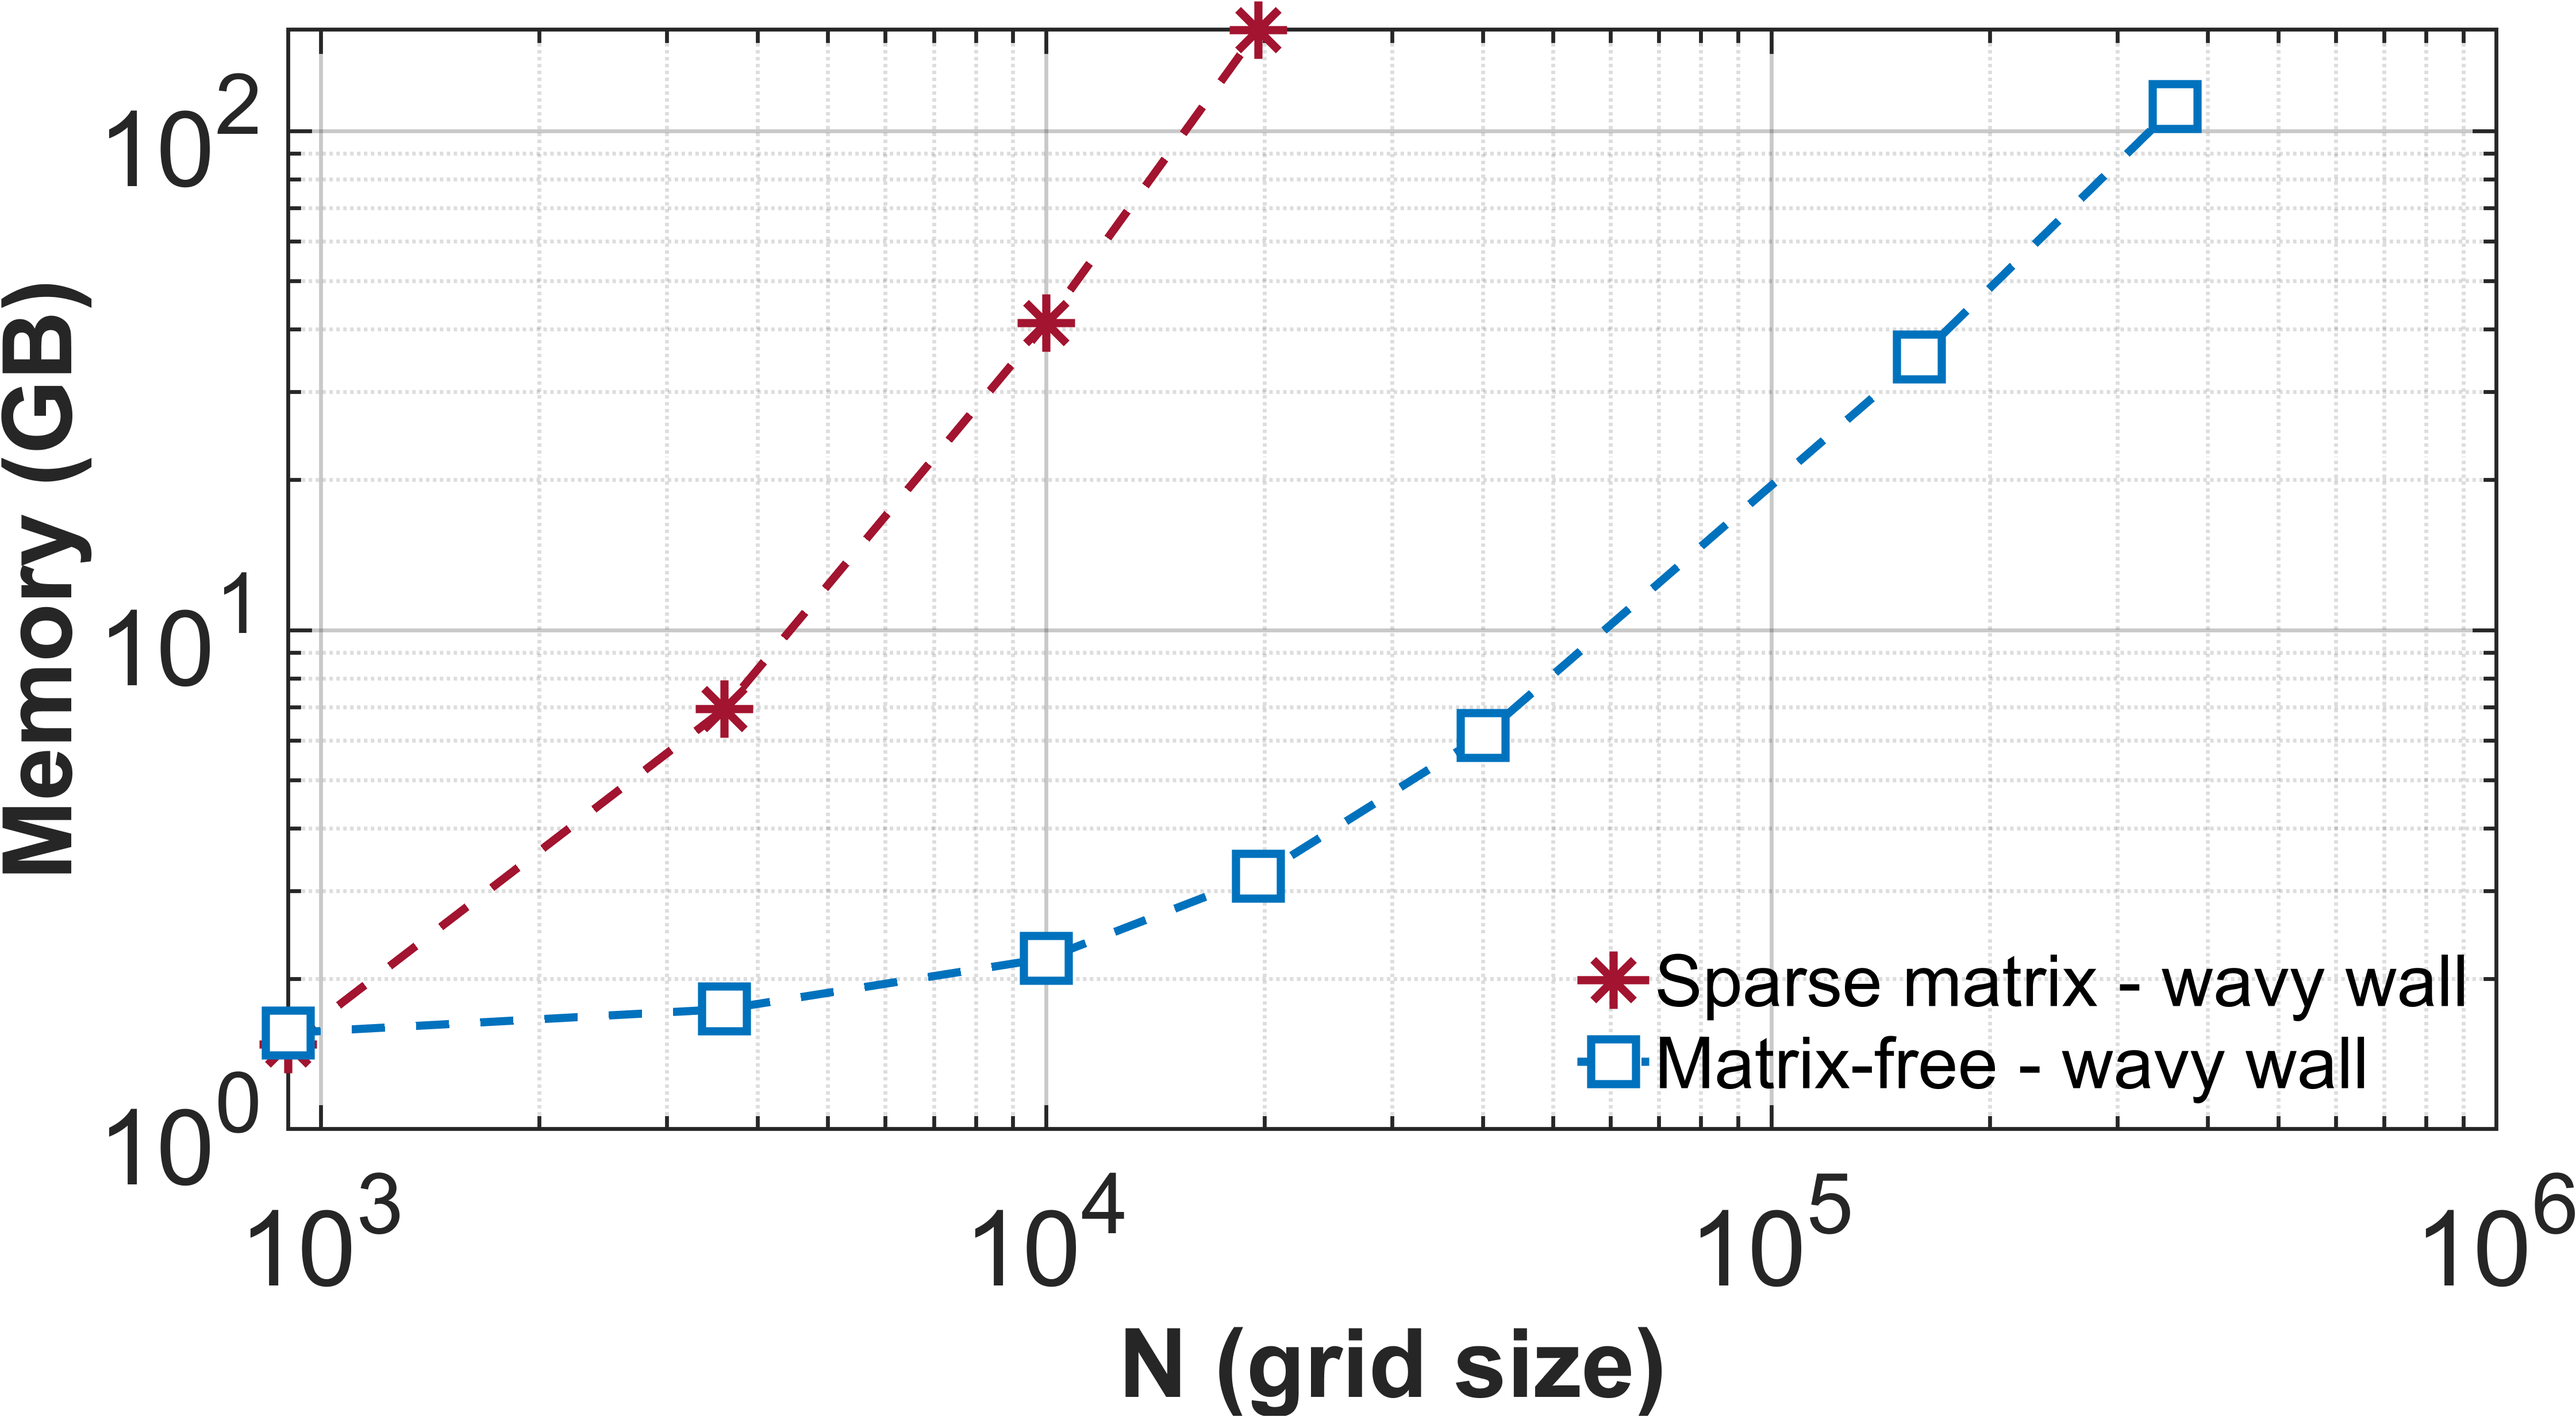
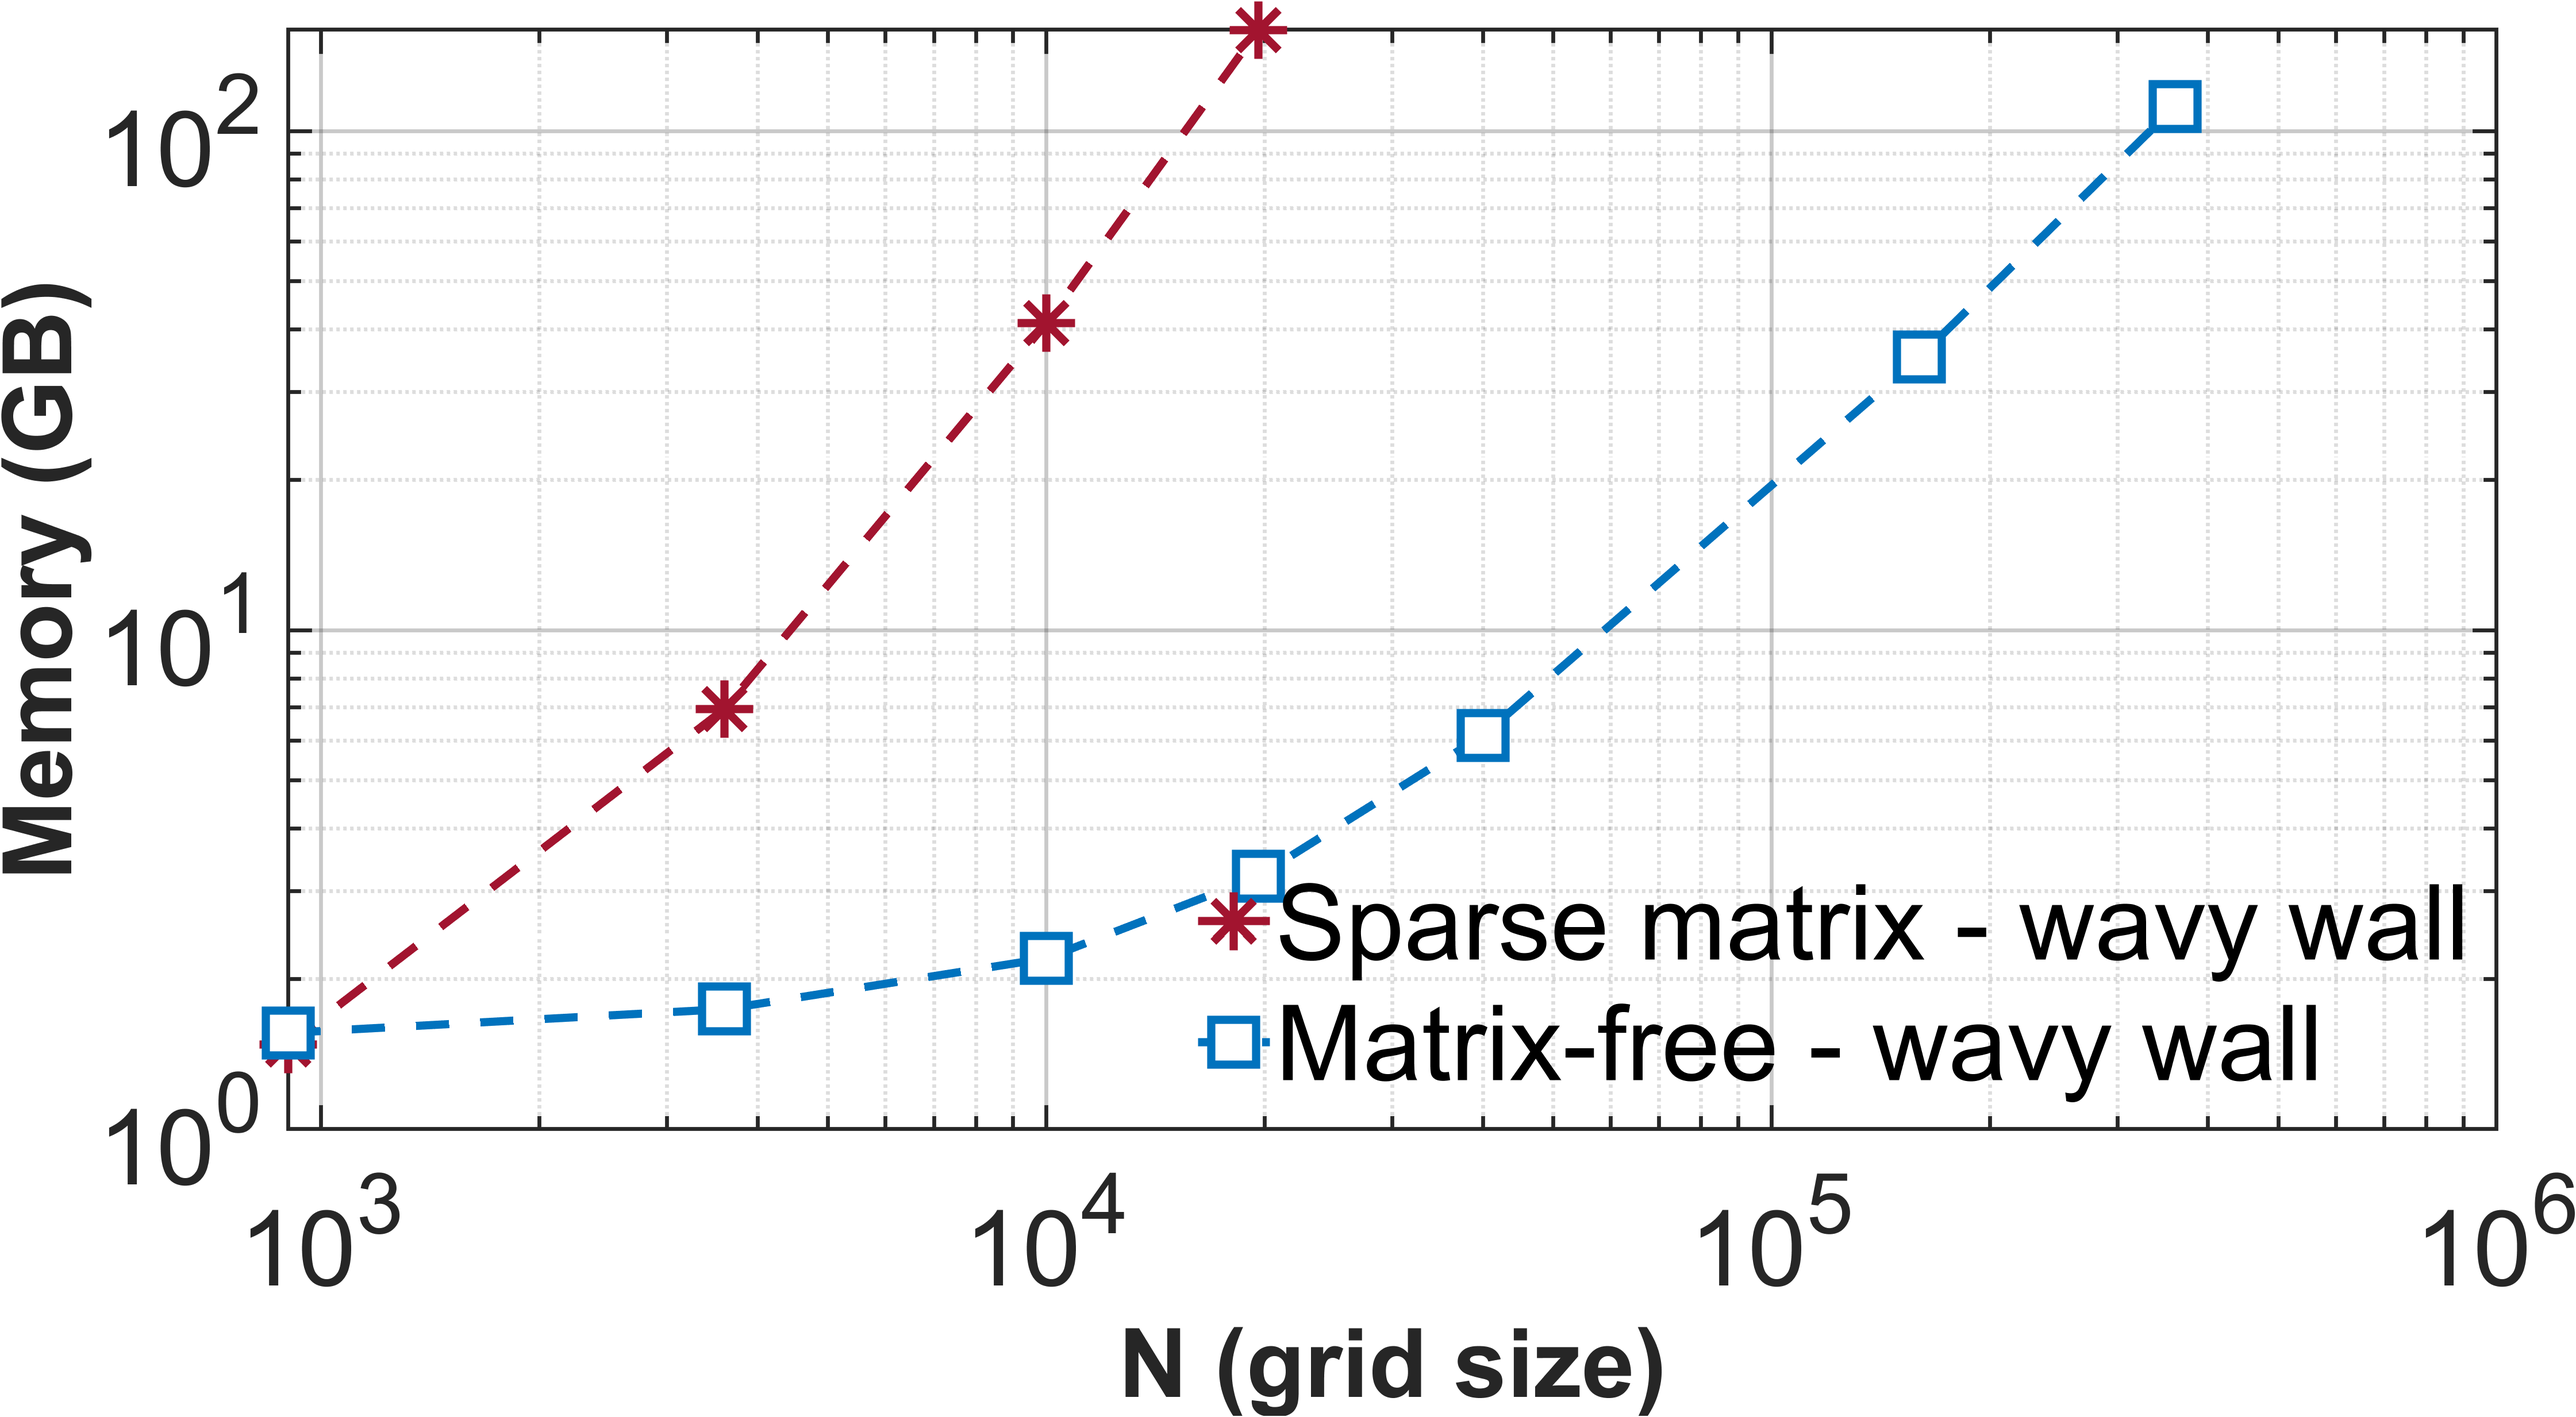
sbatch psc

Changed region(s): [[0.4685, 0.6242, 0.9683, 0.7803]]

diff --git a/figure 8/output_figure_8_wavywall_cputime.m b/figure 8/output_figure_8_wavywall_cputime.m
@@ -11,7 +11,7 @@ LW       = 3.4;    % line width (also sets marker edge width in MATLAB)
 MS       = 24;     % marker size
 FS_LABEL = 40;      % axis label font size
 FS_TICK  = 44;      % tick label font size
-FS_LEG   = 30;      % legend font size
+FS_LEG   = 44;      % legend font size
 
 % Your colors
 % C_MF_CF = [0 0.4470 0.7410];      % blue

diff --git a/figure 8/output_figure_8_wavywall_memory.m b/figure 8/output_figure_8_wavywall_memory.m
@@ -11,7 +11,7 @@ LW       = 3.4;    % line width (also sets marker edge width in MATLAB)
 MS       = 24;     % marker size
 FS_LABEL = 40;      % axis label font size
 FS_TICK  = 44;      % tick label font size
-FS_LEG   = 30;      % legend font size
+FS_LEG   = 44;      % legend font size
 
 % Your colors
 % C_MF_CF = [0 0.4470 0.7410];      % blue
